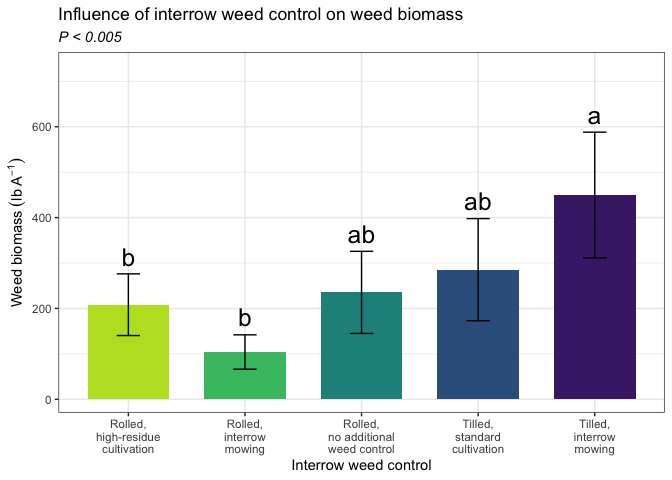
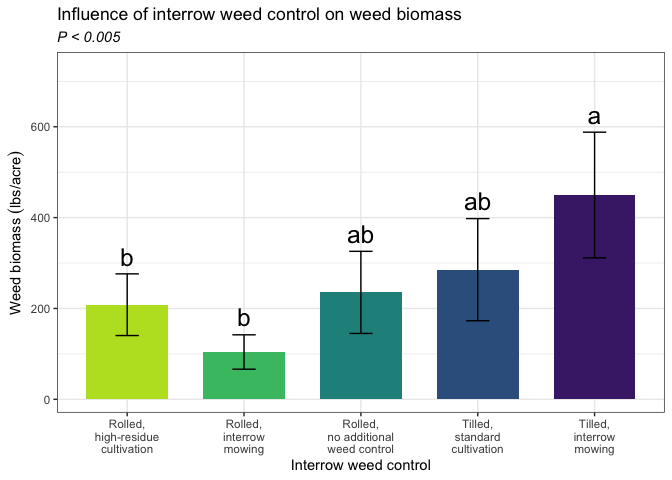
lbs per acre

diff --git a/rmarkdowns/weed_biomass.md b/rmarkdowns/weed_biomass.md
@@ -51,14 +51,14 @@ combined_raw <- read_excel("~/Github/Mowtivation/raw-data/All Treatments/combine
 kable(head(combined_raw))
 ```
 
-| id | location | year | treatment | block | plot | bean_emergence | bean_biomass | intrarow_weed_biomass | interrow_weed_biomass | weed_biomass | bean_population | bean_yield |
-|:---|:---|---:|:---|---:|---:|---:|---:|---:|---:|---:|:---|:---|
-| CU_B1_P101 | field x | 2023 | TIM | 1 | 101 | 46.5 | 223.740 | 19.000 | 44.490 | 63.490 | 34.5 | 417.21 |
-| CU_B1_P102 | field x | 2023 | TIC | 1 | 102 | 42.5 | 267.460 | 30.975 | 0.720 | 31.695 | 39.5 | 565.54 |
-| CU_B1_P103 | field x | 2023 | RIM | 1 | 103 | 36.5 | 217.890 | 0.950 | 6.890 | 3.920 | 37.5 | 449.93 |
-| CU_B1_P104 | field x | 2023 | RNO | 1 | 104 | 41.0 | 207.675 | 0.660 | 45.735 | 46.395 | 35 | 412.59 |
-| CU_B1_P105 | field x | 2023 | RIC | 1 | 105 | 41.0 | 230.285 | 0.495 | 22.025 | 22.520 | 39 | 473.79 |
-| CU_B1_P201 | field x | 2023 | RIC | 2 | 201 | 36.5 | 208.105 | 6.395 | 19.460 | 25.855 | 33.5 | 484.04 |
+| id | location | year | treatment | block | plot | bean_emergence | bean_biomass | intrarow_weed_biomass | interrow_weed_biomass | weed_biomass | bean_population | bean_yield | seed_weight |
+|:---|:---|---:|:---|---:|---:|---:|---:|---:|---:|---:|:---|:---|:---|
+| CU_B1_P101 | field x | 2023 | TIM | 1 | 101 | 46.5 | 223.740 | 19.000 | 44.490 | 63.490 | 34.5 | 417.21 | 17.119999999999997 |
+| CU_B1_P102 | field x | 2023 | TIC | 1 | 102 | 42.5 | 267.460 | 30.975 | 0.720 | 31.695 | 39.5 | 565.54 | 17.475000000000001 |
+| CU_B1_P103 | field x | 2023 | RIM | 1 | 103 | 36.5 | 217.890 | 0.950 | 6.890 | 3.920 | 37.5 | 449.93 | 16.752499999999998 |
+| CU_B1_P104 | field x | 2023 | RNO | 1 | 104 | 41.0 | 207.675 | 0.660 | 45.735 | 46.395 | 35 | 412.59 | 16.145 |
+| CU_B1_P105 | field x | 2023 | RIC | 1 | 105 | 41.0 | 230.285 | 0.495 | 22.025 | 22.520 | 39 | 473.79 | 17.047499999999999 |
+| CU_B1_P201 | field x | 2023 | RIC | 2 | 201 | 36.5 | 208.105 | 6.395 | 19.460 | 25.855 | 33.5 | 484.04 | 17.149999999999999 |
 
 \##Clean data
 
@@ -78,14 +78,14 @@ weed_biomass_clean <-clean_combined |>
 kable(head(weed_biomass_clean)) 
 ```
 
-| id | location | year | weed_control | block | plot | bean_emergence | bean_biomass | intrarow_weed_biomass | interrow_weed_biomass | weed_biomass | bean_population | bean_yield | weed_biomass_grams_meter | weed_biomass_kg_ha | weed_biomass_lbs_ac |
-|:---|:---|:---|:---|:---|:---|---:|---:|---:|---:|---:|:---|:---|---:|---:|---:|
-| CU_B1_P101 | field x | 2023 | TIM | 1 | 101 | 46.5 | 223.740 | 19.000 | 44.490 | 63.490 | 34.5 | 417.21 | 126.98 | 1269.8 | 1132.88889 |
-| CU_B1_P102 | field x | 2023 | TIC | 1 | 102 | 42.5 | 267.460 | 30.975 | 0.720 | 31.695 | 39.5 | 565.54 | 63.39 | 633.9 | 565.55227 |
-| CU_B1_P103 | field x | 2023 | RIM | 1 | 103 | 36.5 | 217.890 | 0.950 | 6.890 | 3.920 | 37.5 | 449.93 | 7.84 | 78.4 | 69.94683 |
-| CU_B1_P104 | field x | 2023 | RNO | 1 | 104 | 41.0 | 207.675 | 0.660 | 45.735 | 46.395 | 35 | 412.59 | 92.79 | 927.9 | 827.85289 |
-| CU_B1_P105 | field x | 2023 | RIC | 1 | 105 | 41.0 | 230.285 | 0.495 | 22.025 | 22.520 | 39 | 473.79 | 45.04 | 450.4 | 401.83742 |
-| CU_B1_P201 | field x | 2023 | RIC | 2 | 201 | 36.5 | 208.105 | 6.395 | 19.460 | 25.855 | 33.5 | 484.04 | 51.71 | 517.1 | 461.34576 |
+| id | location | year | weed_control | block | plot | bean_emergence | bean_biomass | intrarow_weed_biomass | interrow_weed_biomass | weed_biomass | bean_population | bean_yield | seed_weight | weed_biomass_grams_meter | weed_biomass_kg_ha | weed_biomass_lbs_ac |
+|:---|:---|:---|:---|:---|:---|---:|---:|---:|---:|---:|:---|:---|:---|---:|---:|---:|
+| CU_B1_P101 | field x | 2023 | TIM | 1 | 101 | 46.5 | 223.740 | 19.000 | 44.490 | 63.490 | 34.5 | 417.21 | 17.119999999999997 | 126.98 | 1269.8 | 1132.88889 |
+| CU_B1_P102 | field x | 2023 | TIC | 1 | 102 | 42.5 | 267.460 | 30.975 | 0.720 | 31.695 | 39.5 | 565.54 | 17.475000000000001 | 63.39 | 633.9 | 565.55227 |
+| CU_B1_P103 | field x | 2023 | RIM | 1 | 103 | 36.5 | 217.890 | 0.950 | 6.890 | 3.920 | 37.5 | 449.93 | 16.752499999999998 | 7.84 | 78.4 | 69.94683 |
+| CU_B1_P104 | field x | 2023 | RNO | 1 | 104 | 41.0 | 207.675 | 0.660 | 45.735 | 46.395 | 35 | 412.59 | 16.145 | 92.79 | 927.9 | 827.85289 |
+| CU_B1_P105 | field x | 2023 | RIC | 1 | 105 | 41.0 | 230.285 | 0.495 | 22.025 | 22.520 | 39 | 473.79 | 17.047499999999999 | 45.04 | 450.4 | 401.83742 |
+| CU_B1_P201 | field x | 2023 | RIC | 2 | 201 | 36.5 | 208.105 | 6.395 | 19.460 | 25.855 | 33.5 | 484.04 | 17.149999999999999 | 51.71 | 517.1 | 461.34576 |
 
 <br> \# Model testing
 
@@ -375,7 +375,7 @@ weed_biomass_clean |>
   stat_summary(geom="text", fun = "MeanPlusSe", aes(label= trimws(.group)),size=6.5,vjust=-0.5) +
   labs(
     x = "Interrow weed control",
-    y = expression("Weed biomass" ~ (lb ~ A^{-1})),
+     y = expression("Weed biomass" ~ (lbs * "/" * acre)),
     title = str_c("Influence of interrow weed control on weed biomass"),
     subtitle = expression(italic("P < 0.005"))) +
   
@@ -397,7 +397,7 @@ weed_biomass_clean |>
 ![](weed_biomass_files/figure-gfm/unnamed-chunk-13-1.png)<!-- -->
 
 ``` r
-ggsave("weed_biomass_weed_control_lbA.png", width = 8, height = 6, dpi = 300)
+ggsave("weed_biomass_weed_control_lbsacre.png", width = 8, height = 6, dpi = 300)
 ```
 
 ## Weed_control:location (S)
@@ -412,7 +412,7 @@ weed_biomass_clean |>
   stat_summary(geom="text", fun = "MeanPlusSe", aes(label= trimws(.group)),size=6.5,vjust=-0.5) +
   labs(
     x = "Interrow weed control",
-    y = expression("Weed biomass" ~ (lb ~ A^{-1})),
+    y = expression("Weed biomass" ~ (lbs * "/" * acre)),
     title = str_c("Influence of interrow weed control and location on weed biomass"),
     subtitle = expression(italic("P < 0.005"))) +
   
@@ -434,8 +434,5 @@ weed_biomass_clean |>
 ![](weed_biomass_files/figure-gfm/unnamed-chunk-14-1.png)<!-- -->
 
 ``` r
-ggsave("weed_biomass_weed_control_location_lbA.png", width = 12, height = 6, dpi = 300)
+ggsave("weed_biomass_weed_control_location_lbsacre.png", width = 12, height = 6, dpi = 300)
 ```
-
-\#Ask tyler if a transformation may be appopriate due to such low values
-and number of zeros for weeds in field O2 East and O2 West
